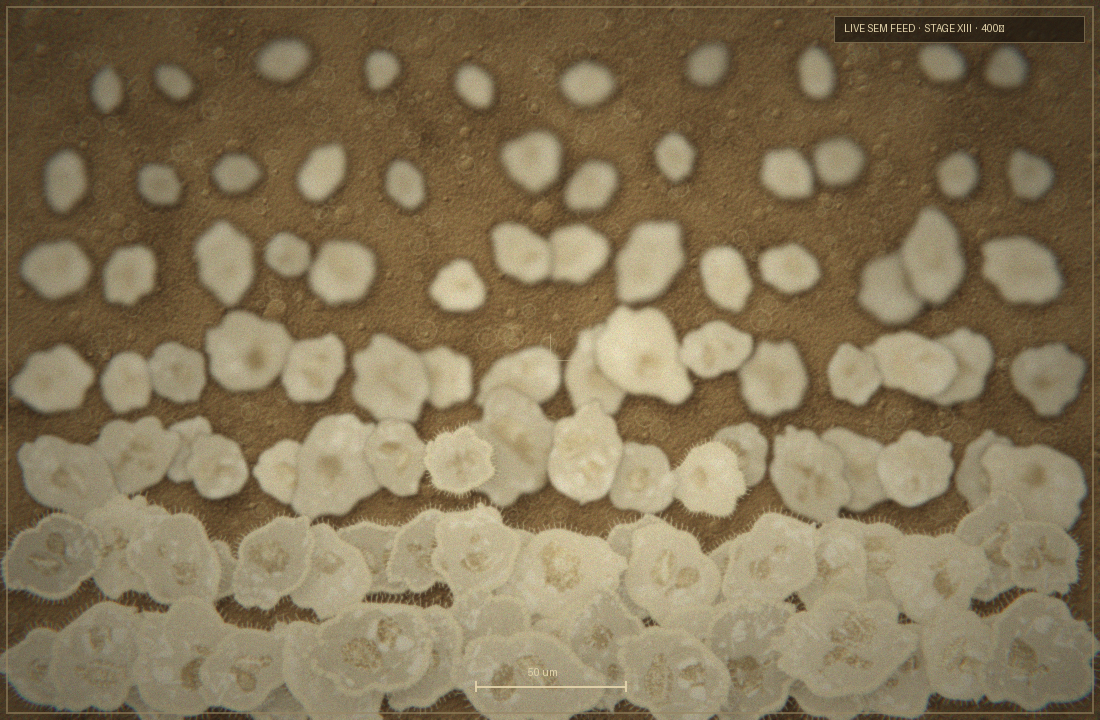
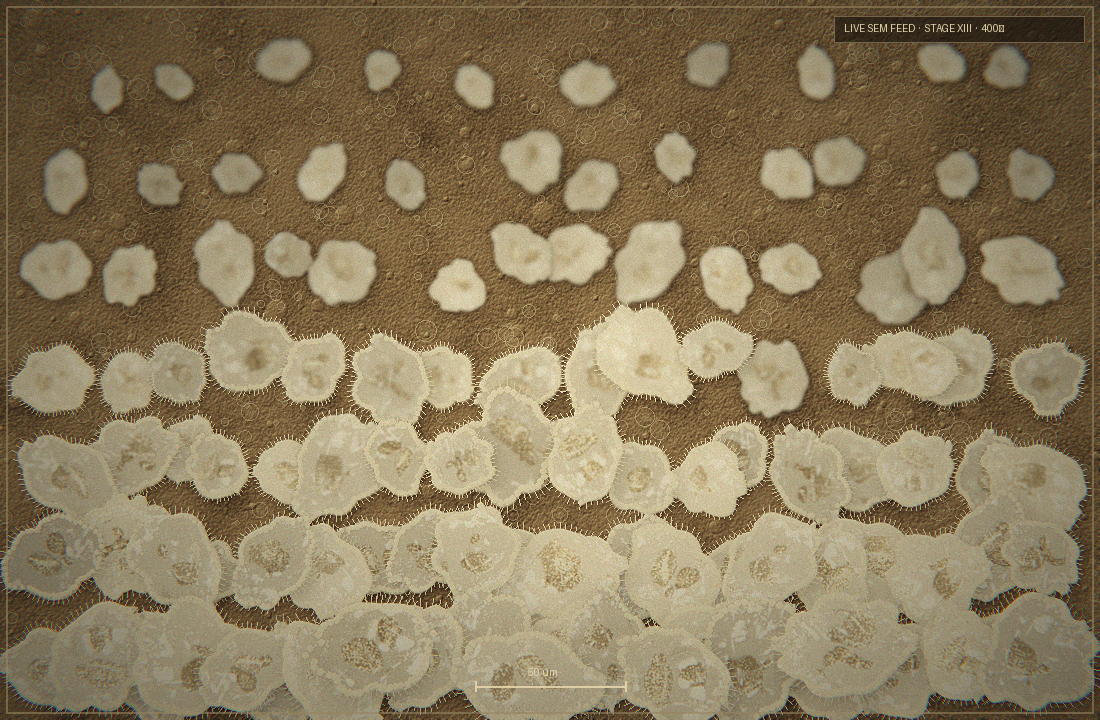
fix(v5.0): crisp finish — unsharp instead of diffraction soften, lighter DoF
The render read soft/blurry. Replace the diffraction-softening step in
photographic_finish with a light micro-soften + unsharp mask (crisp captured
look), and cut the depth-of-field blur (r*0.30 -> r*0.16, steeper falloff) so
cells stay sharp. Preview regenerated.

Gates green: ruff, format, mypy, pytest, coverage.

diff --git a/cellauto/rules/abiogenesis/life_sem.py b/cellauto/rules/abiogenesis/life_sem.py
@@ -321,8 +321,10 @@ def photographic_finish(rgb: np.ndarray, seed: int = 0) -> np.ndarray:
     work = work * (1 - 0.10 * hi) + (work * warm) * (0.10 * hi)
     work = np.clip(work * (1 - 0.05 * sh) + (work * cool) * (0.05 * sh), 0, 1)
 
-    # 3. Diffraction-limited softening (tiny Airy-ish PSF)
-    work = np.clip(0.8 * (_blur(work * 255, 0.7) / 255) + 0.2 * (_blur(work * 255, 1.8) / 255), 0, 1)
+    # 3. Crisp capture: a hair of optical micro-softening, then an unsharp mask
+    #    so detail stays sharp (a real well-focused micrograph is crisp).
+    soft = _blur(work * 255, 1.1) / 255
+    work = np.clip(work + 0.55 * (work - soft), 0.0, 1.0)
 
     # 4. Veiling-glare bloom on highlights
     himask = np.clip((lum(work) - 0.62) / 0.38, 0, 1)[..., None] * work

diff --git a/cellauto/rules/abiogenesis/life_sprites.py b/cellauto/rules/abiogenesis/life_sprites.py
@@ -127,8 +127,8 @@ def _paste_cell(canvas, spr, cx, cy, r, depth, ang, furniture, jitter_key=None):
         s = spr.resize((target, target), Image.LANCZOS)
     if abs(ang) > 0.1:
         s = s.rotate(ang, resample=Image.BICUBIC, expand=True)
-    blur = max(0.0, 1.0 - depth) ** 1.5 * r * 0.30
-    if blur > 0.4:
+    blur = max(0.0, 1.0 - depth) ** 1.8 * r * 0.16
+    if blur > 0.5:
         s = s.filter(ImageFilter.GaussianBlur(blur))
     ox, oy = int(cx - s.width / 2), int(cy - s.height / 2)
     sh = s.split()[3].filter(ImageFilter.GaussianBlur(r * 0.25))